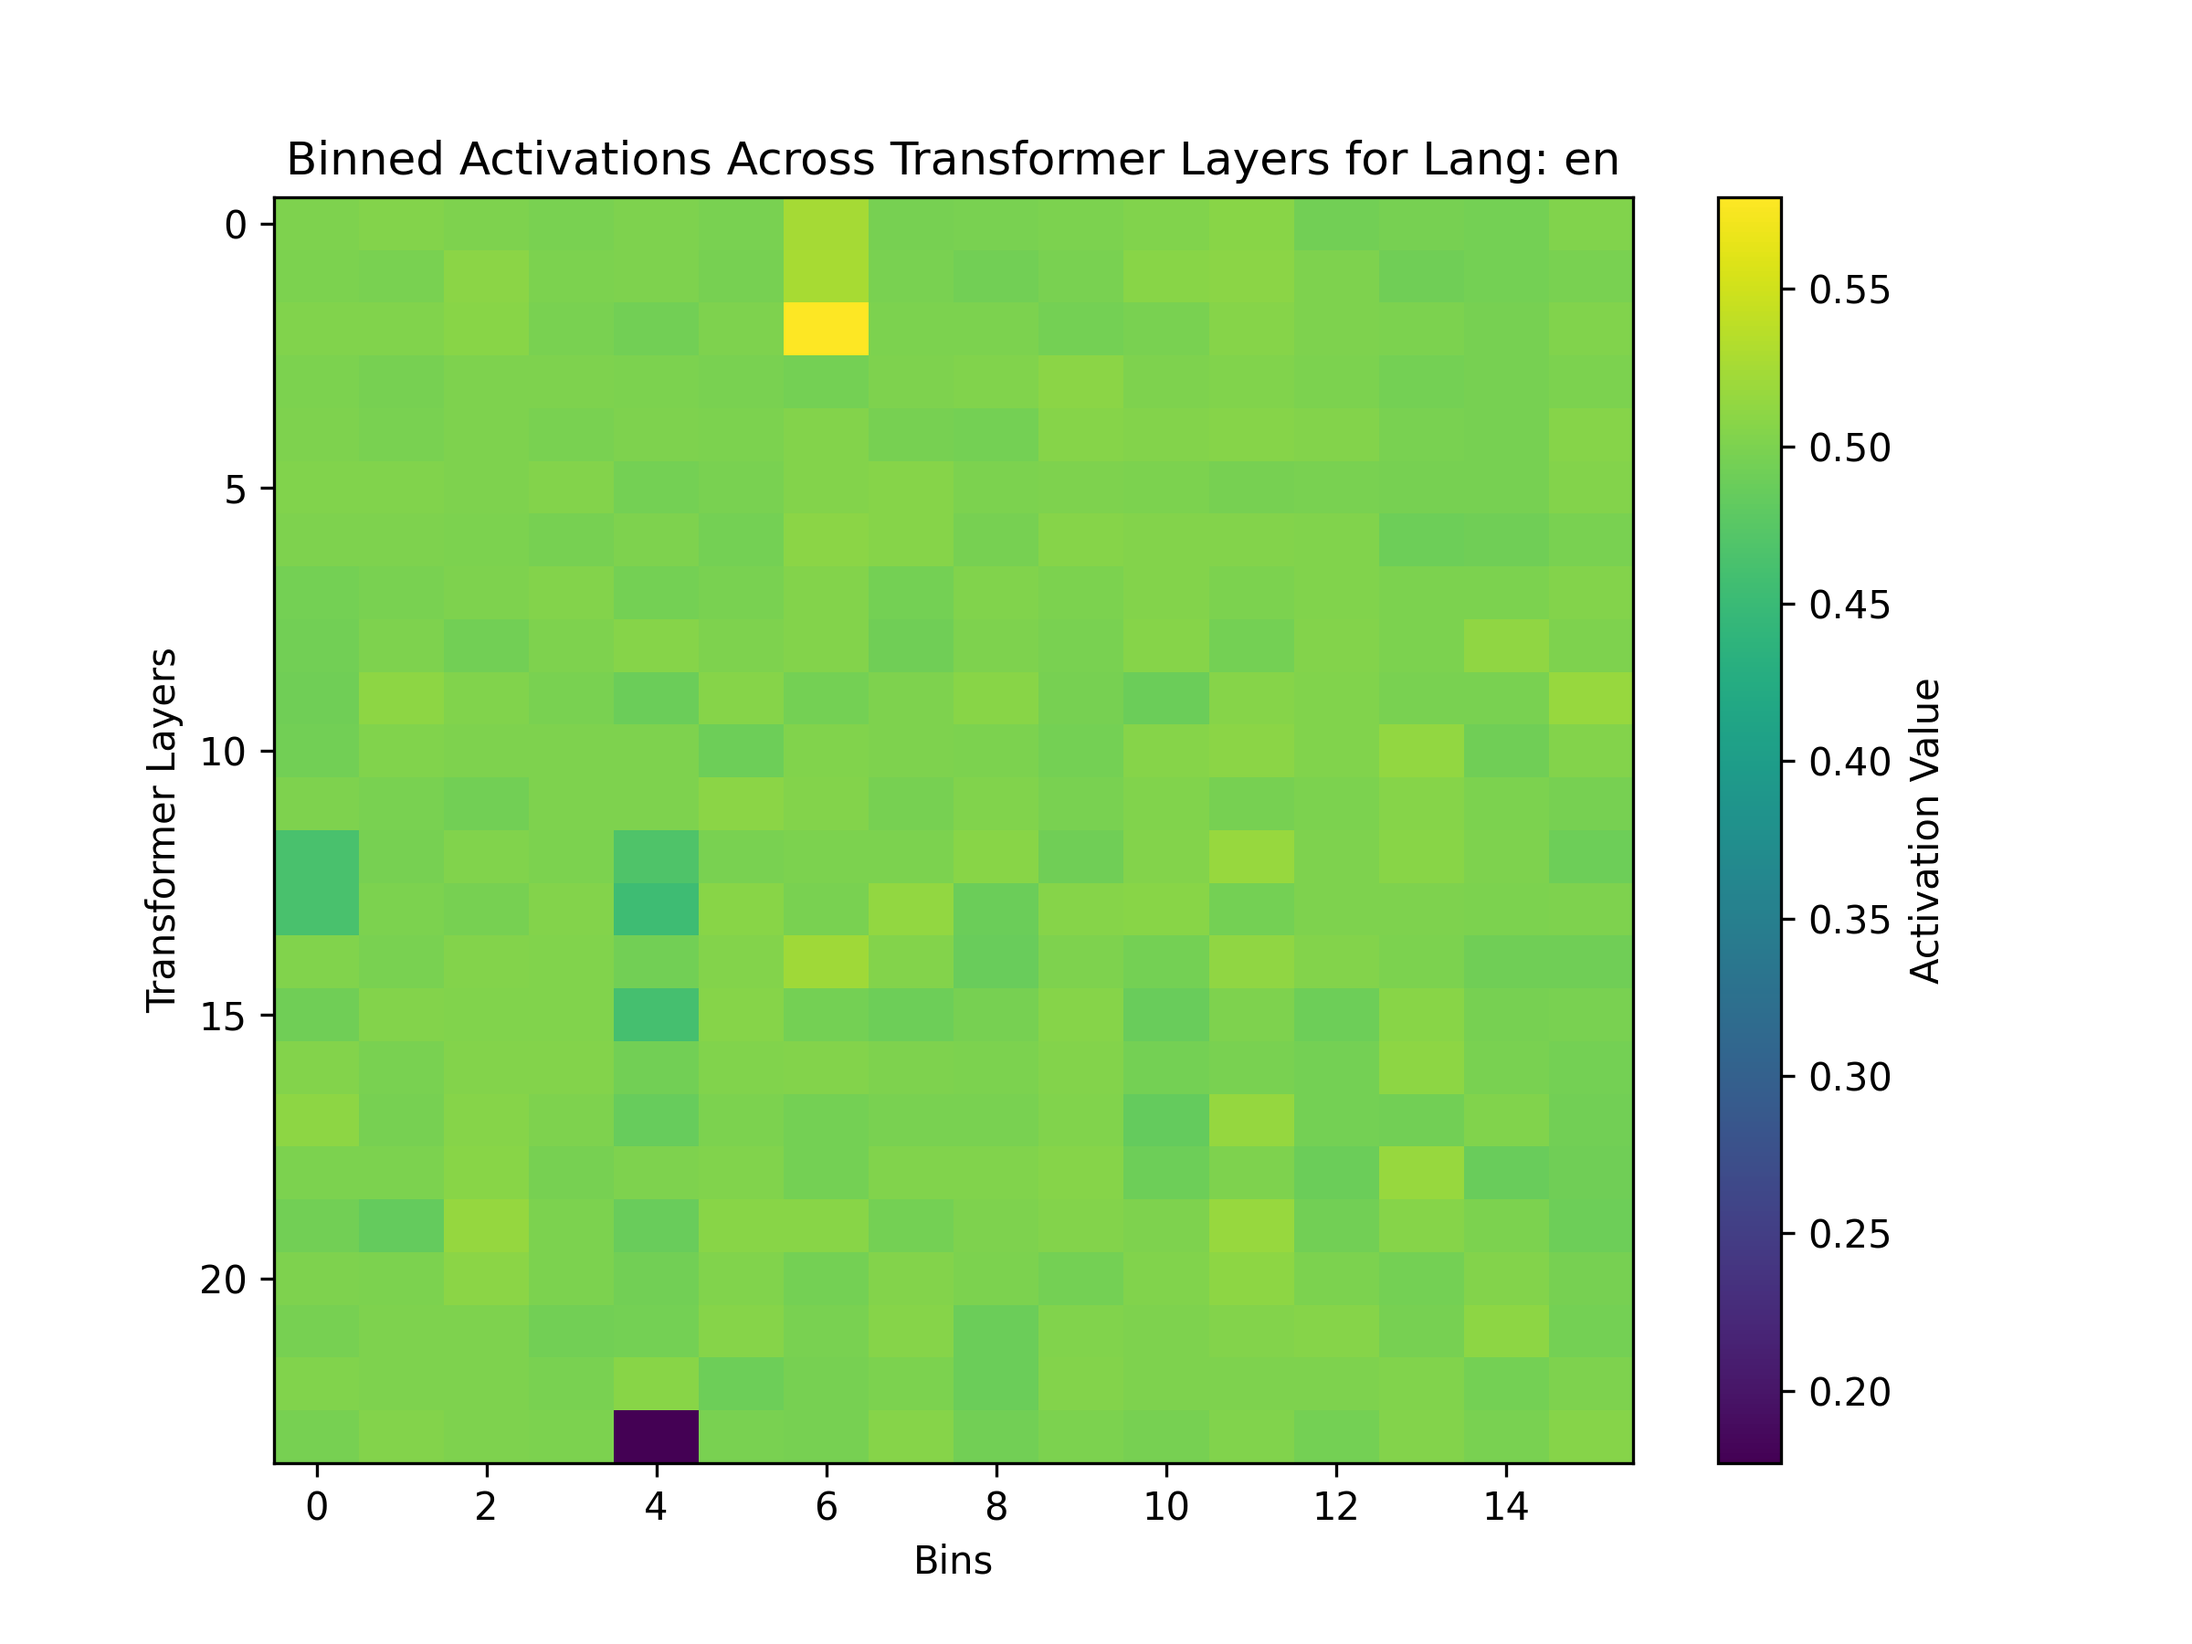
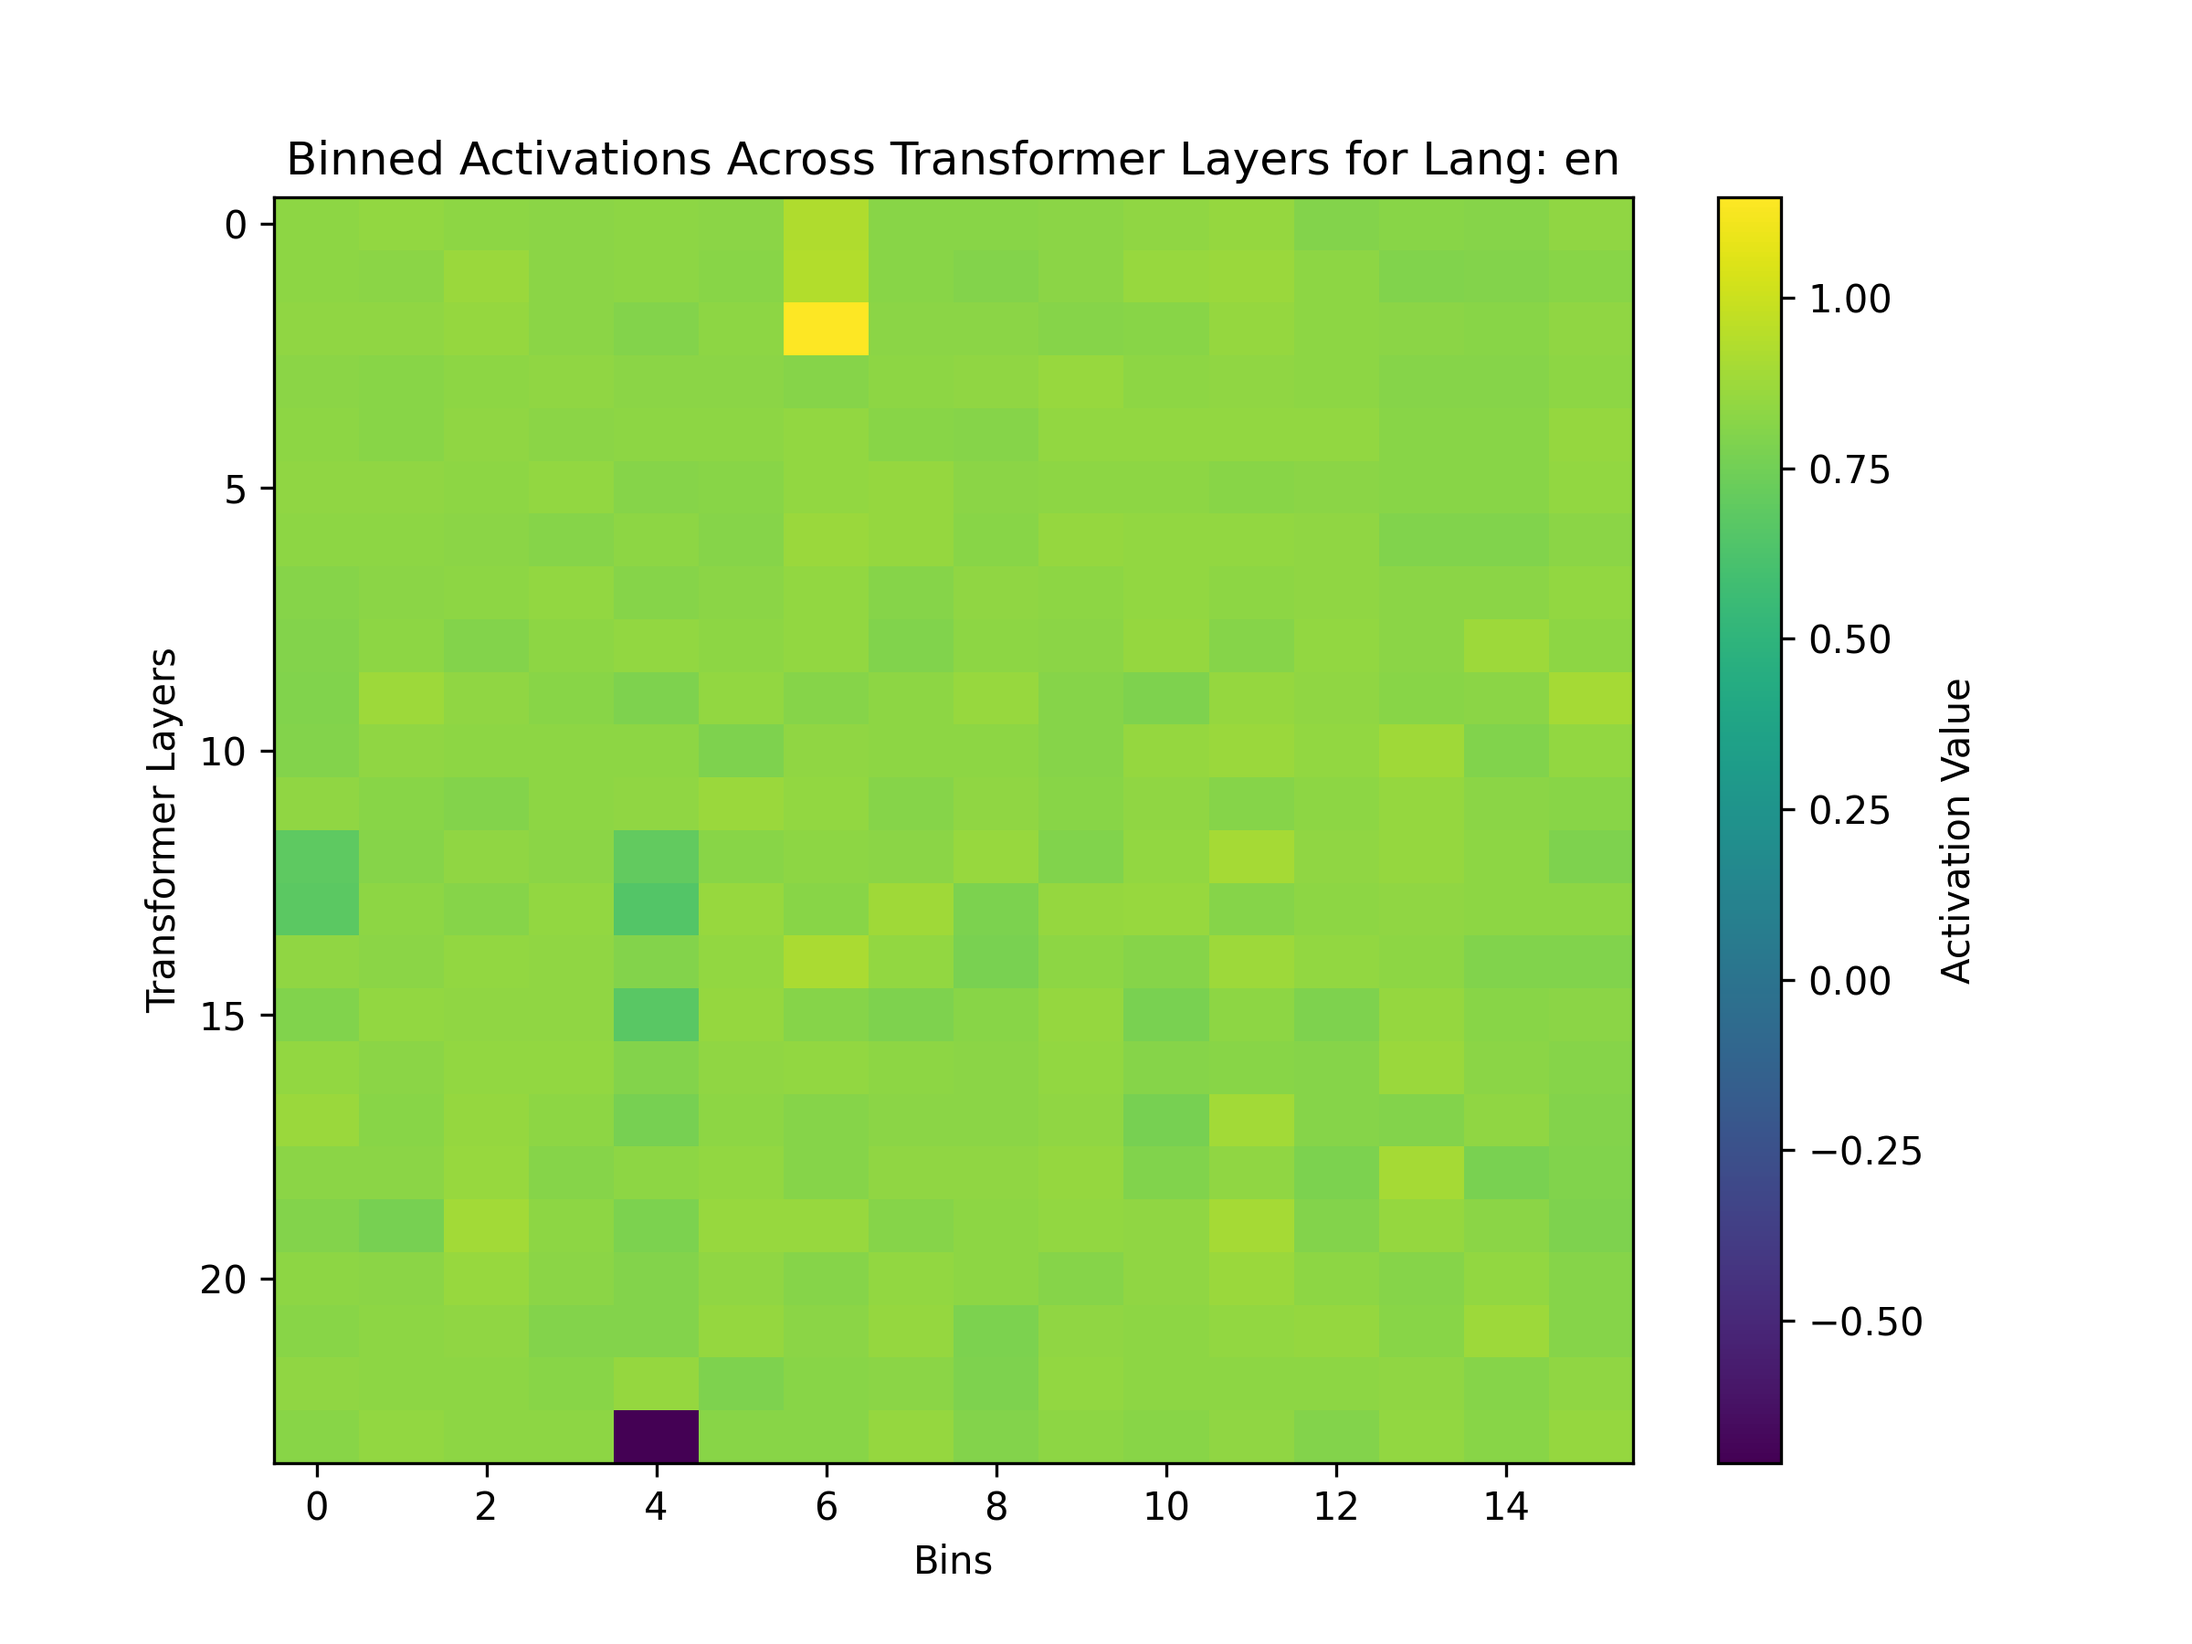
Add code for saving the activations

diff --git a/src/save_activation.py b/src/save_activation.py
@@ -1,0 +1,119 @@
+import torch, torchinfo, json, sys, pickle, os
+from typing import List, Tuple
+import pandas as pd
+from pathlib import Path
+import numpy as np
+import matplotlib.pyplot as plt
+from tqdm import tqdm
+from models import BertModelForProbing, XLMRobertaModelForProbing
+from transformers import BertTokenizer, XLMRobertaTokenizer
+from mask_dataset import MaskedDataset
+
+class Activation:
+    
+    def __init__(self, device: torch.device, mlama_dataset: MaskedDataset, tokenizer: "Tokenizer", model: "Model", name: str, output_type: str = "ff_out"):
+        """output_type in {"ff_out", "ff_act"}
+        """
+        self.mlama_dataset = mlama_dataset
+        self.tokenizer = tokenizer
+        self.device = device
+        self.model = model.to(self.device)
+        self.output_type = output_type
+        self.name = name
+        
+    def get_dataset_for_lang(self, lang: str, num_of_examples: int, reload=True) -> dict:
+        
+        pkl_file_path = Path(f"outputs/act/{self.name}/{lang}_activation_data.pkl")
+        
+        if reload and Path.exists(pkl_file_path):
+            data_dict = pickle.load(open(pkl_file_path, "rb"))
+            print(f"The activation data is loaded from {pkl_file_path}")
+            return data_dict
+        
+        data_dict = {}
+        with tqdm(self.mlama_dataset.uuid_info_all_lang.items(),
+                  desc=f"Processing example: {lang}",
+                  total=min(num_of_examples, len(self.mlama_dataset.uuid_info_all_lang)),
+                  unit=" examples") as pbar:
+            
+            for count, (uuid, val) in enumerate(pbar):
+                if lang in val.keys():
+                    example = val[lang]["rel"].replace("[X]", str(val[lang]["sub"]))
+                    new_mask = (self.tokenizer.mask_token + " ") * len(self.tokenizer.tokenize(val[lang]["obj"]))
+                    example = example.replace("[Y]", new_mask.strip())
+                    inputs = self.tokenizer(example, truncation=True, return_tensors="pt")
+                    
+                    self.model.eval()
+                    with torch.no_grad():
+                        inputs = {k: v.to(self.device) for k, v in inputs.items()}
+                        outputs = self.model(**inputs)
+                    
+                    ff_output_list = outputs[self.output_type] # List[12 x (b, T, d)]
+                    mask_index_list = outputs["mask_index"] # List[b x List[z_b]]
+                    assert all([i.shape[0] == 1 for i in ff_output_list])
+                    assert len(mask_index_list) == 1
+                    assert outputs["logits"].shape[0] == 1
+                    avg_mask_ff_output_list = [i.squeeze(0)[mask_index_list[0], :].mean(dim=0, keepdim=False) for i in ff_output_list] # List[12 x (d,)]
+                    
+                    model_logit_output = outputs["logits"].argmax(dim=-1).squeeze(0) # (d,)
+                    pred_token_ids = model_logit_output[mask_index_list[0]].tolist()
+                    pred_token = self.tokenizer.convert_ids_to_tokens(pred_token_ids)
+                    true_token = self.tokenizer.tokenize(val[lang]["obj"])      
+                    
+                    new_data = {self.output_type: avg_mask_ff_output_list,
+                                "inputs": example,
+                                "pred_token": pred_token,
+                                "true_token": true_token,
+                                "mask_index": mask_index_list[0],
+                                "is_match": pred_token == true_token}
+                    
+                    data_dict[uuid] = {**val[lang], **new_data}
+                    if count >= num_of_examples:
+                        break
+                else:
+                    data_dict[uuid] = f"{lang} does not exist"
+                    
+        pickle.dump(data_dict, file=open(pkl_file_path, "wb"))
+        return data_dict
+        
+def main(model_name: str, device: torch.device, num_of_examples: int=10):
+       
+    if "bert-" in model_name:
+        tokenizer = BertTokenizer.from_pretrained(model_name)
+        model = BertModelForProbing(tokenizer=tokenizer)
+        name = "mbert"
+    elif "xlm-roberta" in model_name:
+        tokenizer = XLMRobertaTokenizer.from_pretrained(model_name)
+        model = XLMRobertaModelForProbing(tokenizer=tokenizer)
+        name = "xlmr"
+    else:
+        raise NotImplementedError("Invalid model name!")
+    
+    mlama_dataset = MaskedDataset()
+    actvation = Activation(device=device, mlama_dataset=mlama_dataset, tokenizer=tokenizer, model=model, name=name)
+    
+    for lang in mlama_dataset.langs:
+        if not Path(f"outputs/act/{name}/{lang}_activation_data.pkl").exists():
+            actvation.get_dataset_for_lang(lang=lang, num_of_examples=num_of_examples)
+    
+if __name__ == "__main__":
+    cuda_ids = [3]
+    cvd = ""
+    for i in cuda_ids:
+        cvd += str(i) + ","
+        
+    os.environ["CUDA_VISIBLE_DEVICES"] = cvd
+    
+    if torch.cuda.is_available():
+        device_type = "cuda"
+        print("Using GPU...")
+        print(f"Total # of GPU: {torch.cuda.device_count()}")
+        print(f"GPU Details: {torch.cuda.get_device_properties(device=torch.device(device_type))}")
+    else:
+        device_type = "cpu"
+        print("Using CPU...")
+
+    device = torch.device(device_type)
+    models_list = ["bert-base-multilingual-cased", "xlm-roberta-large"]
+    for model_name in models_list:
+        main(model_name=model_name, device=device, num_of_examples=100000)

diff --git a/src/neuron_activity.py b/src/neuron_activity.py
@@ -110,7 +110,9 @@ def get_binned_activation(model_outputs: dict) -> torch.tensor:
         item = torch.split(layer_activations, d//num_bins, dim=0)
         binned_activations.append([i.mean().item() for i in item])
     
-    return torch.nn.functional.sigmoid(torch.tensor(binned_activations))
+    binned_activations = torch.tensor(binned_activations)
+    binned_activations = binned_activations - binned_activations.min() / (binned_activations.max() - binned_activations.min())
+    return binned_activations
 
 def plot_activation(binned_activations: torch.tensor, lang: str) -> None:
     
